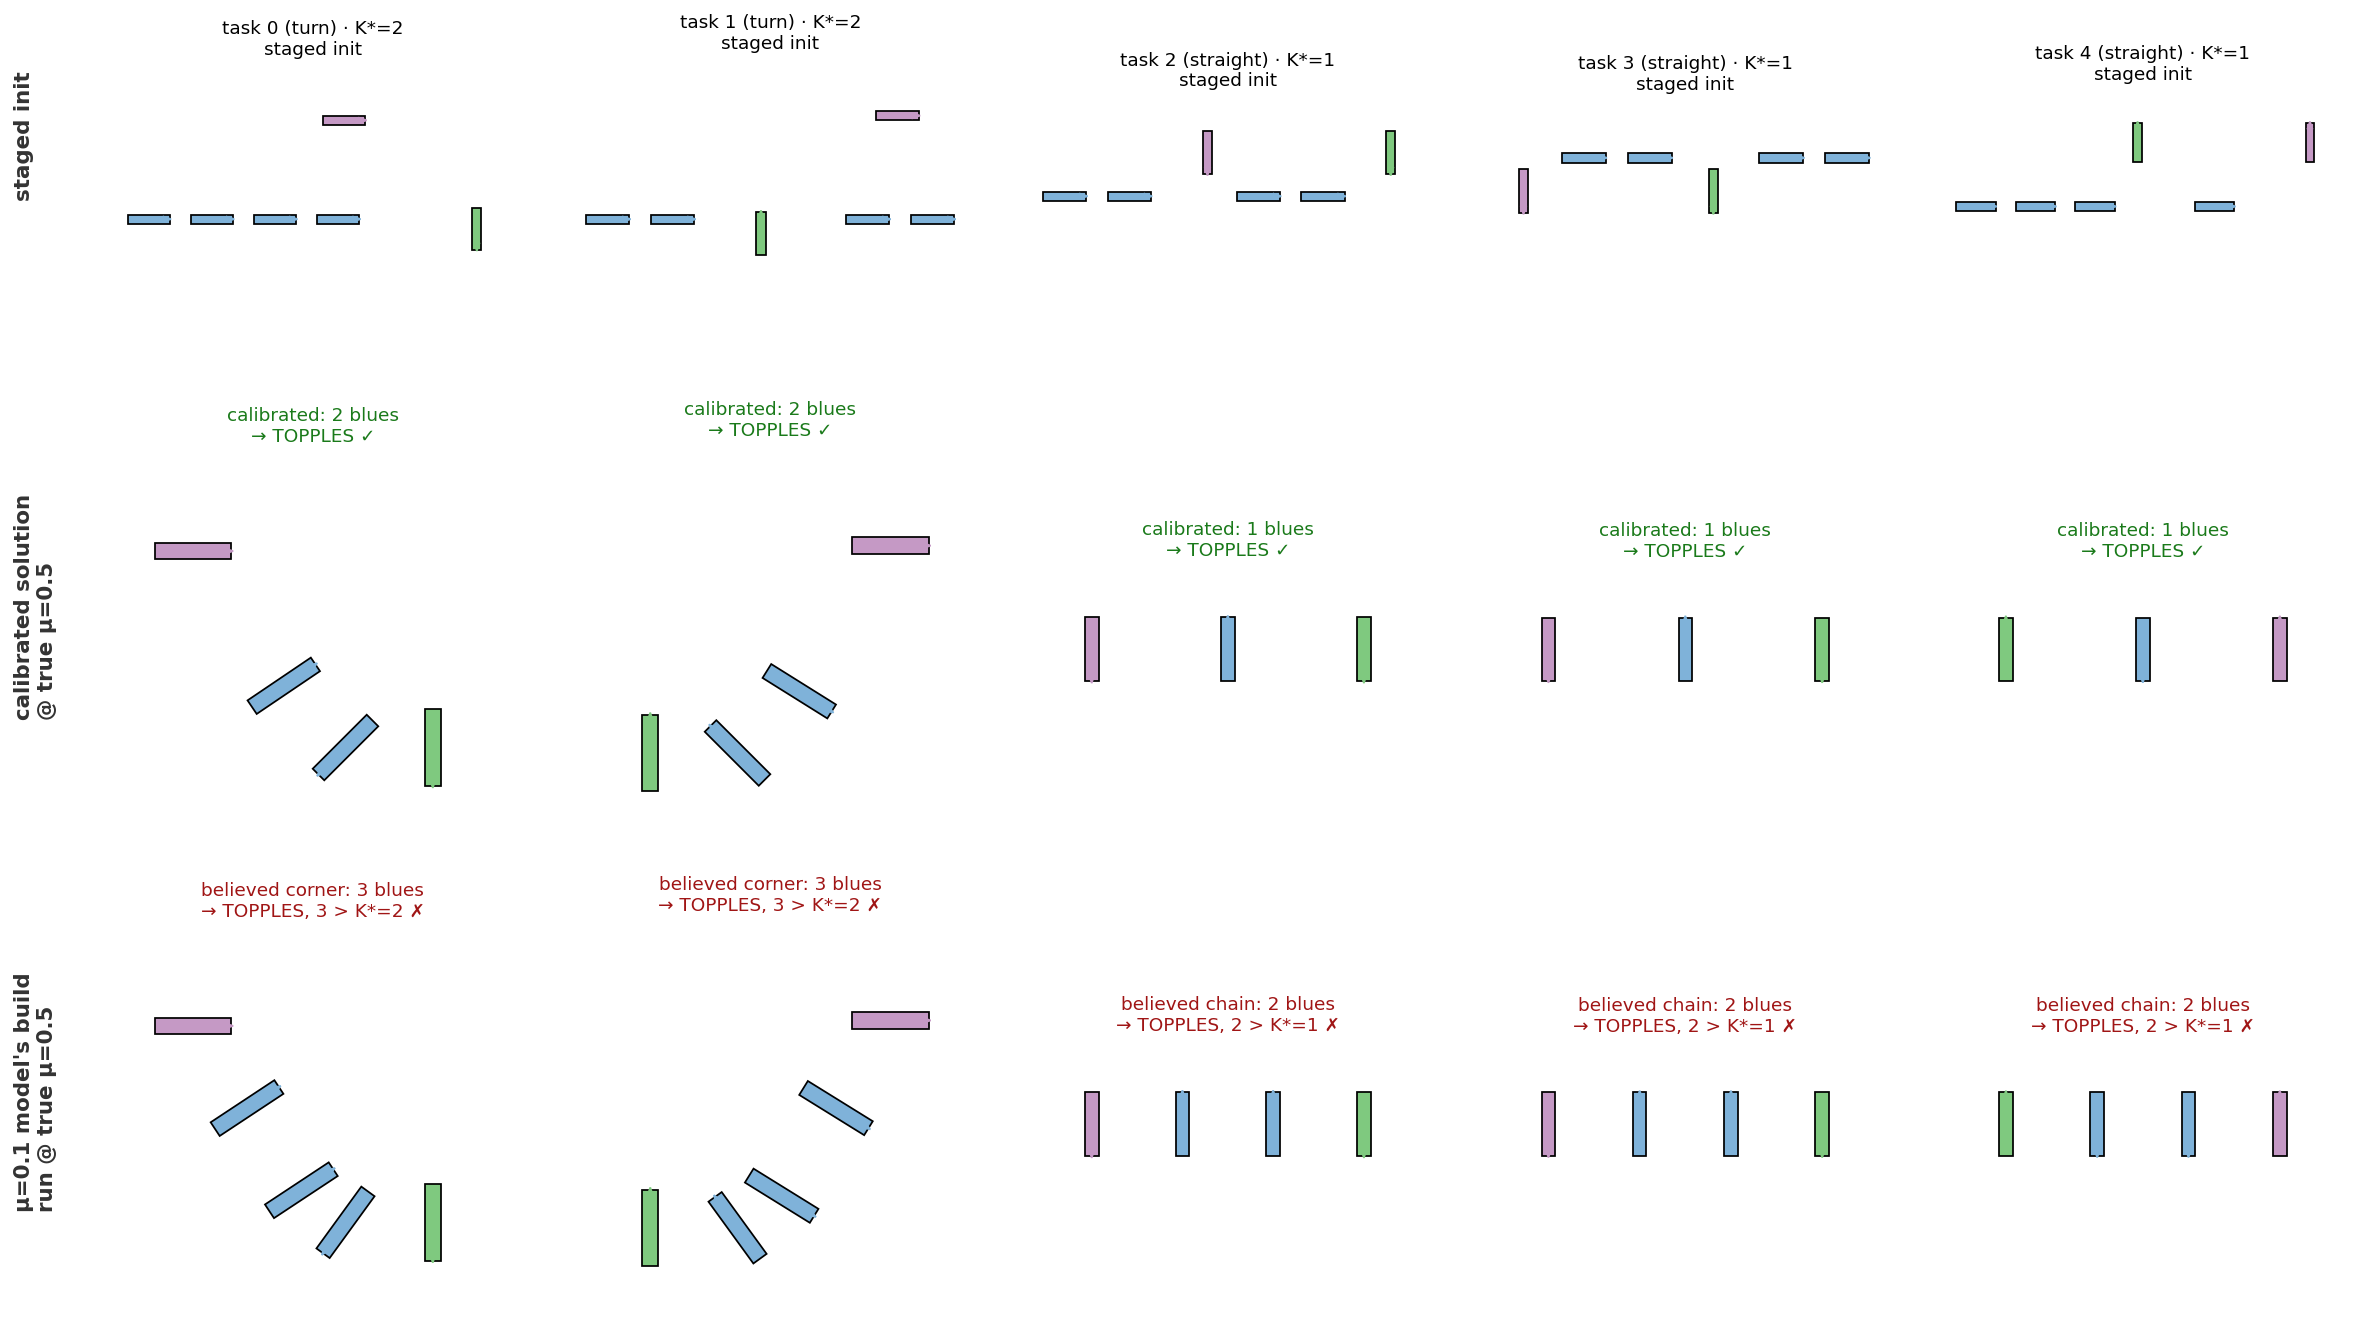
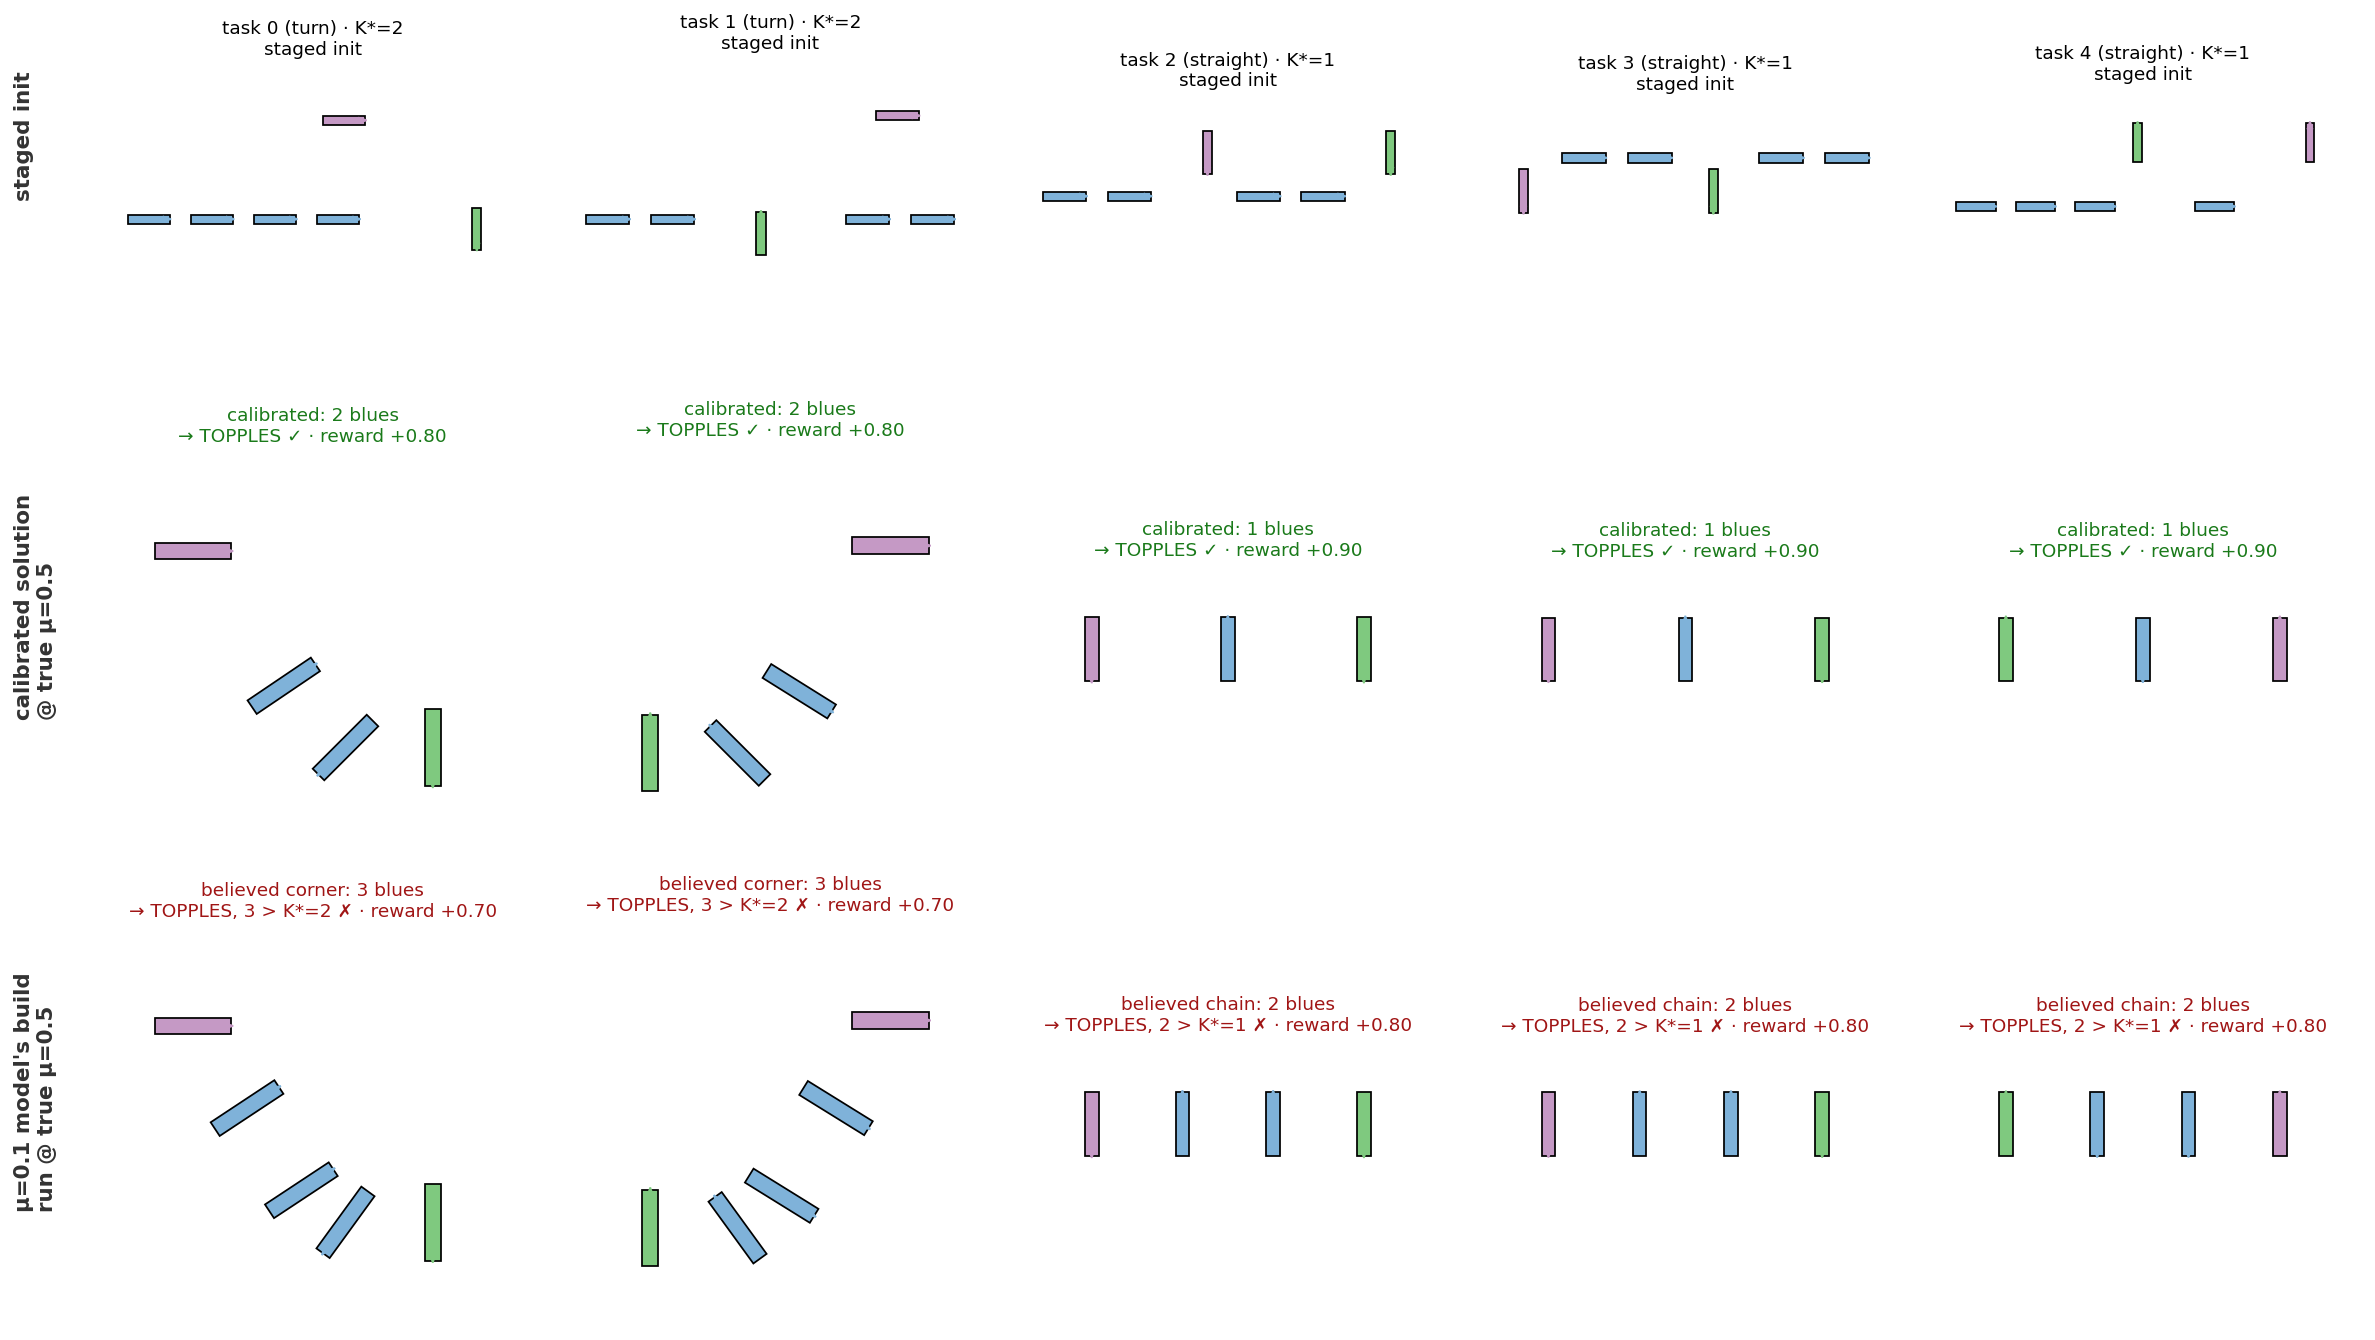
update task example figures for low friction scenarios; enhance reward annotations in visualizations

diff --git a/docs/envs/domino_min_block/make_task_examples_fig.py b/docs/envs/domino_min_block/make_task_examples_fig.py
@@ -16,7 +16,12 @@ For each sampled cached test task, three rows:
      baseline's predicted behaviour. Over-reach: the cheapest layout the
      planning-friction model accepts (fewer blues; should die short).
      Under-reach: the planning model's over-build (more blues; should
-     topple but exceed the K* budget).
+     topple but score below the calibrated reward).
+
+Rows 2-3 also annotate the env reward the DominoEvaluator would grant
+the rendered rollout: +1 for toppling the target minus
+``domino_block_cost`` per blue the cascade consumed (toppled, or shoved
+off its placed spot), read from the settled post-rollout sim state.
 
 Everything is produced by the real task-gen machinery: cached tasks are
 reloaded through the env, layouts come from the search code, outcomes from
@@ -35,6 +40,8 @@ from matplotlib.transforms import Affine2D
 
 from predicators import utils
 from predicators.envs import create_new_env
+from predicators.envs.pybullet_domino.cascade_certificate import \
+    RELAY_MIN_SLIDE
 from predicators.envs.pybullet_domino.task_generators import \
     min_block_utils as mbu
 from predicators.settings import CFG
@@ -47,7 +54,7 @@ ARMS = {
         "span_lo": 0.13,
         "span_hi": 0.30,
         "num_blues": 4,
-        "out_name": "task_examples.png",
+        "out_name": "task_examples_low_friction.png",
     },
     # Under-reach: planner under-estimates reach, over-builds, topples
     # but exceeds the K* budget. Short-leg geometry (retune 2026-07-12,
@@ -166,6 +173,26 @@ def state_poses(state):
     return out
 
 
+def blues_used(od, start, target):
+    """Blues the just-simulated rollout consumed - toppled, or shoved at
+    least RELAY_MIN_SLIDE off their placed spot - read from the env's
+    settled post-rollout state (the final-state view of the evaluator's
+    count_movable_blocks_used)."""
+    final = env._get_state()  # pylint: disable=protected-access
+    used = 0
+    for obj, pose in od.items():
+        if obj in (start, target):
+            continue
+        toppled = abs(final.get(obj, "roll")) >= comp.fallen_threshold
+        slid = float(
+            np.hypot(
+                final.get(obj, "x") - pose["x"],
+                final.get(obj, "y") - pose["y"])) >= RELAY_MIN_SLIDE
+        if toppled or slid:
+            used += 1
+    return used
+
+
 def is_turn(state):
     """A turn task's target faces ~90 degrees off the start (goal_nl no longer
     marks turns, so detect them from the staged geometry)."""
@@ -248,9 +275,12 @@ for row, ti in enumerate(picks):
         axes[row][2].axis("off")
         continue
     od, s_, t_, k_t = true_win
+    # winning_layout's last rollout is the winner, so the env still holds
+    # its settled final state - price it with the evaluator's reward form.
+    r_cal = 1.0 - CFG.domino_block_cost * blues_used(od, s_, t_)
     draw_state(axes[row][1],
                od_poses(od, s_, t_),
-               f"calibrated: {k_t} blues\n→ TOPPLES ✓",
+               f"calibrated: {k_t} blues\n→ TOPPLES ✓ · reward {r_cal:+.2f}",
                tcolor="#1a7a1a")
 
     # Believed side: what the miscalibrated planning model builds.
@@ -335,17 +365,19 @@ for row, ti in enumerate(picks):
                 acc += seg_len
         label = f"same route: {n_bel} blues"
     ok = mbu._layout_topples(env, odb, s_, t_, push_opt)
+    r_bel = float(ok) - CFG.domino_block_cost * blues_used(odb, s_, t_)
     if OVER_REACH:
         # Expected miscalibrated failure: the under-build dies short.
         verdict = "→ TOPPLES (leak!)" if ok else "→ DIES SHORT ✗"
         tcolor = "#b3541e" if ok else "#a01515"
     else:
-        # Expected miscalibrated failure: the over-build topples but
-        # spends more blues than the K* budget allows. A believed CORNER
-        # build can also legitimately die at the true friction (the
-        # µ=0.1 corner geometry is knife-edge at µ=0.5) - still a
-        # baseline failure, not a leak; a straight over-build dying is a
-        # leak (denser chains only get safer as friction rises).
+        # Expected miscalibrated failure mode: the over-build topples but
+        # spends more blues than the calibrated K*, so it scores a lower
+        # reward. A believed CORNER build can also legitimately die at
+        # the true friction (the µ=0.1 corner geometry is knife-edge at
+        # µ=0.5) - still a baseline failure, not a leak; a straight
+        # over-build dying is a leak (denser chains only get safer as
+        # friction rises).
         if ok:
             over = n_bel > k_star
             verdict = (f"→ TOPPLES, {n_bel} > K*={k_star} ✗"
@@ -357,7 +389,7 @@ for row, ti in enumerate(picks):
             verdict, tcolor = "→ DIES SHORT (leak!)", "#b3541e"
     draw_state(axes[row][2],
                od_poses(odb, s_, t_),
-               f"{label}\n{verdict}",
+               f"{label}\n{verdict} · reward {r_bel:+.2f}",
                tcolor=tcolor)
 
 true_mu = CFG.domino_true_friction
